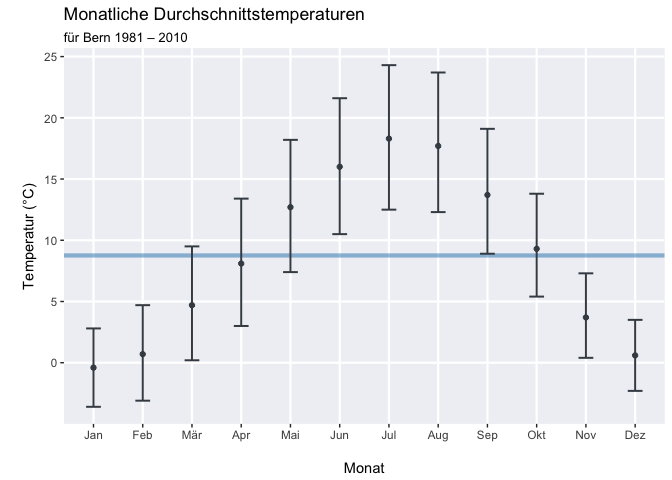
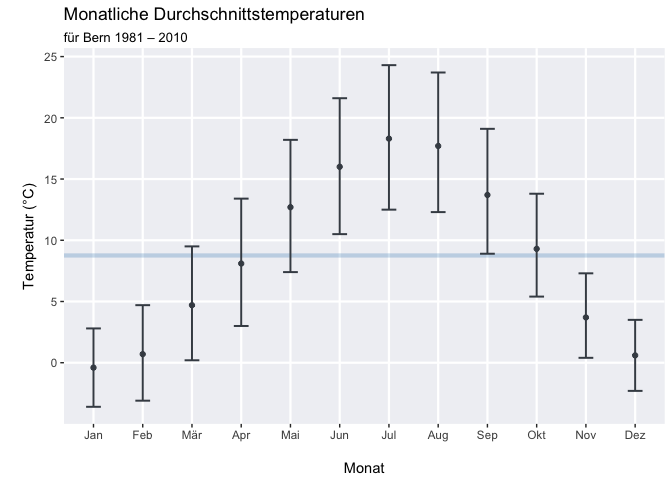
minor

Changed region(s): [[0.0938, 0.5, 1.0, 0.5625]]

diff --git a/tooling/TakeHome/webscraping.md b/tooling/TakeHome/webscraping.md
@@ -87,7 +87,7 @@ mean_temp <- mean(tidy_df$Mittelwert)
 tidy_df  %>% 
   ggplot(aes(x = Monat, y = Mittelwert)) +
   geom_point(size = 1.5, color = "#444B54") +
-  geom_hline(yintercept = mean_temp, color = "#2980B9", size = 1.5, alpha = 0.5) +
+  geom_hline(yintercept = mean_temp, color = "#2980B9", size = 1.5, alpha = 0.25) +
   geom_errorbar(aes(ymin = Min, ymax = Max), width = 0.3, color = "#444B54", size = 0.7) +
   ylab("\nTemperatur (°C)") +
   xlab("\nMonat") +
